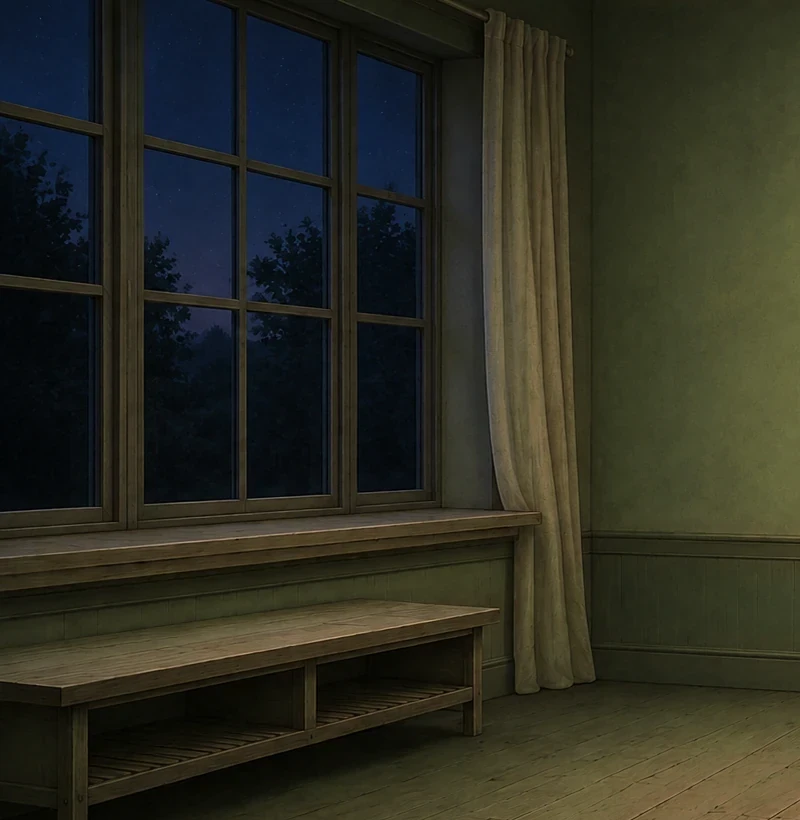
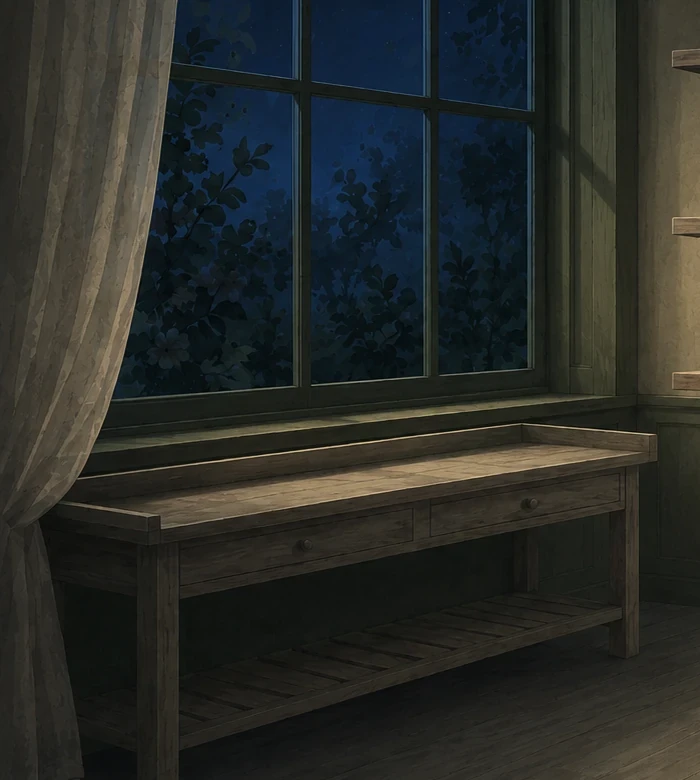
feat(jardin): el cuarto pasa a la ilustración en acuarela v1
Sustituye los fondos por las referencias ilustradas nuevas. Es el primer par
pintado con la MISMA técnica que los assets botánicos de PlantArt: acuarela,
bordes blandos, textura de papel. Se acabó el contraste entre un fondo de
render y unas plantas pintadas.

FONDOS
  cuarto-claro.webp    1586×991  199 KB
  cuarto-oscuro.webp   1586×991  136 KB
  movil-a-{claro,oscuro}.webp   700×780   (ventana y banco)
  movil-b-{claro,oscuro}.webp   986×940   (repisas y suelo)

El oscuro ya cumple la paleta de Mafer OS sin graduación: luminancia 48.7
(rango 45-70), saturación 0.22 (< 0.35) y pared en 60° (oliva).

COORDENADAS RECALIBRADAS DE CERO
La habitación cambió de proporciones internas, así que se remidió todo con
rejilla de calibración y promedio claro/oscuro:

  repisa alta   16.26 % → 11.76 %   (baja 4.5 % hacia la derecha)
  repisa media  34.02 % → 32.68 %
  repisa baja   49.32 % → 51.68 %
  friso         52.4 %   (antes 59.2 %)
  suelo         80.6 %   (antes 72.4 %)
  banco         58.3 %   (antes 69.0 %)

Las repisas de esta ilustración llegan del 38.8 % al borde derecho: son un
50 % más largas y admiten seis plantas por repisa con holgura, sin apretar.

AFORO
  escritorio  20 sitios  (6+6+5 repisas, 3 suelo) + la planta actual
  móvil       16 sitios  (4+5+5 repisas, 2 suelo) + la planta actual

Móvil conserva los dos paneles apilados, con recortes nuevos. El panel A pasa
a ser el retrato de la planta actual sobre su banco: en esta habitación el
[…]

diff --git a/src/lib/garden-layout.ts b/src/lib/garden-layout.ts
@@ -51,8 +51,8 @@ export type GardenSurface = "alfeizar" | "repisa-alta" | "repisa-media" | "repis
  *  superficies pintadas. Ambas composiciones comparten fondo. */
 export const SCENE_ASPECT: Record<GardenScene, number> = {
   wide: 1586 / 991,
-  "movil-a": 800 / 820,
-  "movil-b": 806 / 930,
+  "movil-a": 700 / 780,
+  "movil-b": 986 / 940,
 };
 
 export type GardenSlot = {
@@ -83,65 +83,69 @@ const slot = (
   order: number
 ): GardenSlot => ({ id, surface, scene, x, baseline, height, maxWidth, order });
 
-/** Escritorio: 15 sitios en las tres repisas + 3 en el suelo.
- *  Líneas de apoyo medidas sobre la ilustración, siguiendo su inclinación. */
+/** Escritorio: la habitación entera. Las repisas de esta ilustración llegan
+ *  desde el 38.8 % hasta el borde derecho —un 50 % más largas que las de la
+ *  versión anterior—, así que caben seis por repisa con holgura en vez de
+ *  apretarlas. Líneas de apoyo medidas sobre la ilustración y promediadas
+ *  entre la variante clara y la oscura. */
 const WIDE: GardenSlot[] = [
-  // Repisa alta — sube 2.1 % hacia la derecha
-  slot("wide", "repisa-alta-1", "repisa-alta", 63, 16.07, 13, 7.8, 0),
-  slot("wide", "repisa-alta-2", "repisa-alta", 71, 15.44, 13, 7.8, 1),
-  slot("wide", "repisa-alta-3", "repisa-alta", 79, 14.81, 13, 7.8, 2),
-  slot("wide", "repisa-alta-4", "repisa-alta", 87, 14.17, 13, 7.8, 3),
-  slot("wide", "repisa-alta-5", "repisa-alta", 95, 13.54, 13, 7.8, 4),
+  // Repisa alta — sube 5 % hacia la derecha; poco techo, plantas más bajas
+  slot("wide", "repisa-alta-1", "repisa-alta", 45, 16.26, 11, 9, 0),
+  slot("wide", "repisa-alta-2", "repisa-alta", 55, 15.36, 11, 9, 1),
+  slot("wide", "repisa-alta-3", "repisa-alta", 65, 14.46, 11, 9, 2),
+  slot("wide", "repisa-alta-4", "repisa-alta", 75, 13.56, 11, 9, 3),
+  slot("wide", "repisa-alta-5", "repisa-alta", 85, 12.66, 11, 9, 4),
+  slot("wide", "repisa-alta-6", "repisa-alta", 95, 11.76, 11, 9, 5),
   // Repisa media — casi horizontal
-  slot("wide", "repisa-media-1", "repisa-media", 63, 32.41, 13, 7.8, 5),
-  slot("wide", "repisa-media-2", "repisa-media", 71, 32.25, 13, 7.8, 6),
-  slot("wide", "repisa-media-3", "repisa-media", 79, 32.09, 13, 7.8, 7),
-  slot("wide", "repisa-media-4", "repisa-media", 87, 31.93, 13, 7.8, 8),
-  slot("wide", "repisa-media-5", "repisa-media", 95, 31.77, 13, 7.8, 9),
-  // Repisa baja — horizontal
-  slot("wide", "repisa-baja-1", "repisa-baja", 63, 49.11, 14, 7.8, 10),
-  slot("wide", "repisa-baja-2", "repisa-baja", 71, 49.20, 14, 7.8, 11),
-  slot("wide", "repisa-baja-3", "repisa-baja", 79, 49.29, 14, 7.8, 12),
-  slot("wide", "repisa-baja-4", "repisa-baja", 87, 49.38, 14, 7.8, 13),
-  slot("wide", "repisa-baja-5", "repisa-baja", 95, 49.47, 14, 7.8, 14),
-  // Suelo — más cerca del frente = más grandes. A la izquierda de la regadera
-  // y la caja de madera, que viven a partir del 78 % del ancho.
-  slot("wide", "piso-1", "piso", 37, 87, 23, 16, 15),
-  slot("wide", "piso-2", "piso", 54, 85, 22, 16, 16),
-  slot("wide", "piso-3", "piso", 70, 80, 19, 14, 17),
+  slot("wide", "repisa-media-1", "repisa-media", 45, 34.02, 14, 9, 6),
+  slot("wide", "repisa-media-2", "repisa-media", 55, 33.75, 14, 9, 7),
+  slot("wide", "repisa-media-3", "repisa-media", 65, 33.48, 14, 9, 8),
+  slot("wide", "repisa-media-4", "repisa-media", 75, 33.22, 14, 9, 9),
+  slot("wide", "repisa-media-5", "repisa-media", 85, 32.95, 14, 9, 10),
+  slot("wide", "repisa-media-6", "repisa-media", 95, 32.68, 14, 9, 11),
+  // Repisa baja — baja hacia la derecha y termina antes (94.5 %)
+  slot("wide", "repisa-baja-1", "repisa-baja", 45, 49.32, 14, 9, 12),
+  slot("wide", "repisa-baja-2", "repisa-baja", 55, 49.91, 14, 9, 13),
+  slot("wide", "repisa-baja-3", "repisa-baja", 65, 50.50, 14, 9, 14),
+  slot("wide", "repisa-baja-4", "repisa-baja", 75, 51.09, 14, 9, 15),
+  slot("wide", "repisa-baja-5", "repisa-baja", 85, 51.68, 14, 9, 16),
+  // Suelo — entre el banco (termina en el 40 %) y la caja de madera (empieza
+  // en el 74 %). Más cerca del frente = más grandes.
+  slot("wide", "piso-1", "piso", 47, 89, 17, 9, 17),
+  slot("wide", "piso-2", "piso", 57, 92, 19, 9, 18),
+  slot("wide", "piso-3", "piso", 67, 87, 16, 9, 19),
 ];
 
-/** Móvil: la misma habitación recorrida en dos vistas apiladas.
+/** Móvil: el mismo cuarto recorrido en dos vistas apiladas.
  *
- *  Un recorte 4:5 de la ilustración horizontal mide exactamente media imagen:
- *  o conserva la ventana y pierde las repisas, o al revés. Por eso móvil no es
- *  un recorte sino DOS lienzos del mismo cuarto — arriba la ventana con su
- *  alféizar y su banco, abajo las tres repisas y el suelo.
+ *  Panel A — ventana y banco de propagación           (recorte x 0-700, y 120-900)
+ *  Panel B — las tres repisas y el suelo             (recorte x 600-1586, y 0-940)
  *
- *  Coordenadas medidas dentro de cada recorte, promediando claro y oscuro.
- *  A 390 px de ancho las plantas quedan entre 55 y 90 px: legibles y tocables,
- *  frente a los 38 px que daba la composición de una sola escena. */
+ *  Cuatro o cinco sitios por repisa en vez de seis: a 390 px de ancho eso deja
+ *  plantas de 64-75 px, claramente visibles y tocables. */
 const NARROW: GardenSlot[] = [
-  // ── Panel A · ventana, alféizar y banco ──
-  // El alféizar sube hacia la derecha con la perspectiva. Sus dos sitios van a
-  // la derecha del panel para dejarle a la planta actual el hueco de la
-  // izquierda: el banco está DELANTE del alféizar, así que una planta alta
-  // sobre él invadiría el alféizar si compartieran columna.
-  slot("movil-a", "alfeizar-1", "alfeizar", 40, 63.8, 20, 11, 0),
-  slot("movil-a", "alfeizar-2", "alfeizar", 52, 62.9, 20, 11, 1),
-  // ── Panel B · tres repisas y suelo ──
-  slot("movil-b", "repisa-alta-1", "repisa-alta", 35, 15.46, 13, 22, 2),
-  slot("movil-b", "repisa-alta-2", "repisa-alta", 58, 14.57, 13, 22, 3),
-  slot("movil-b", "repisa-alta-3", "repisa-alta", 81, 13.67, 13, 22, 4),
-  slot("movil-b", "repisa-media-1", "repisa-media", 35, 33.43, 16, 22, 5),
-  slot("movil-b", "repisa-media-2", "repisa-media", 58, 33.13, 16, 22, 6),
-  slot("movil-b", "repisa-media-3", "repisa-media", 81, 32.83, 16, 22, 7),
-  slot("movil-b", "repisa-baja-1", "repisa-baja", 35, 51.26, 17, 22, 8),
-  slot("movil-b", "repisa-baja-2", "repisa-baja", 58, 51.43, 17, 22, 9),
-  slot("movil-b", "repisa-baja-3", "repisa-baja", 81, 51.60, 17, 22, 10),
-  // El suelo se queda a la izquierda de la regadera y la caja (68 % en adelante)
-  slot("movil-b", "piso-1", "piso", 30, 88, 22, 26, 11),
-  slot("movil-b", "piso-2", "piso", 54, 82, 19, 22, 12),
+  // ── Panel A · la planta actual en su banco, bajo la ventana ──
+  // Sin sitios extra: en esta habitación el banco está pegado a la ventana y
+  // tapa el alféizar, así que no queda superficie donde posar nada más. El
+  // panel es el retrato de la planta que estás cuidando.
+  // ── Panel B · la colección ──
+  slot("movil-b", "repisa-alta-1", "repisa-alta", 16, 16.87, 12, 21, 0),
+  slot("movil-b", "repisa-alta-2", "repisa-alta", 40, 15.46, 12, 21, 1),
+  slot("movil-b", "repisa-alta-3", "repisa-alta", 64, 14.05, 12, 21, 2),
+  slot("movil-b", "repisa-alta-4", "repisa-alta", 86, 12.76, 12, 21, 3),
+  slot("movil-b", "repisa-media-1", "repisa-media", 12, 35.86, 16, 18, 4),
+  slot("movil-b", "repisa-media-2", "repisa-media", 31, 35.52, 16, 18, 5),
+  slot("movil-b", "repisa-media-3", "repisa-media", 50, 35.19, 16, 18, 6),
+  slot("movil-b", "repisa-media-4", "repisa-media", 69, 34.86, 16, 18, 7),
+  slot("movil-b", "repisa-media-5", "repisa-media", 88, 34.53, 16, 18, 8),
+  slot("movil-b", "repisa-baja-1", "repisa-baja", 12, 52.02, 15, 18, 9),
+  slot("movil-b", "repisa-baja-2", "repisa-baja", 31, 52.75, 15, 18, 10),
+  slot("movil-b", "repisa-baja-3", "repisa-baja", 50, 53.48, 15, 18, 11),
+  slot("movil-b", "repisa-baja-4", "repisa-baja", 69, 54.21, 15, 18, 12),
+  slot("movil-b", "repisa-baja-5", "repisa-baja", 88, 54.95, 15, 18, 13),
+  // La caja de madera empieza en el 58 % de este recorte
+  slot("movil-b", "piso-1", "piso", 18, 92, 20, 20, 14),
+  slot("movil-b", "piso-2", "piso", 40, 88, 18, 20, 15),
 ];
 
 export const GARDEN_SLOTS: Record<GardenBreakpoint, GardenSlot[]> = { wide: WIDE, narrow: NARROW };
@@ -155,9 +159,9 @@ export const GARDEN_SLOTS: Record<GardenBreakpoint, GardenSlot[]> = { wide: WIDE
  *  lienzo un poco más abajo el dibujo aterriza sobre la madera en vez de
  *  flotar. Calculado como 67.8 + 0.18 × alto. */
 export const PROPAGATION_SPOT: Record<GardenBreakpoint, Omit<GardenSlot, "surface" | "order">> = {
-  wide: { id: "propagacion", scene: "wide", x: 17, baseline: 73.3, height: 24, maxWidth: 24 },
+  wide: { id: "propagacion", scene: "wide", x: 22, baseline: 62.98, height: 26, maxWidth: 26 },
   // En móvil el banco vive en el panel A, medido dentro de ese recorte.
-  narrow: { id: "propagacion", scene: "movil-a", x: 18, baseline: 83.2, height: 26, maxWidth: 26 },
+  narrow: { id: "propagacion", scene: "movil-a", x: 30, baseline: 67.7, height: 26, maxWidth: 32 },
 };
 
 /** Orden de llenado, distinto del orden visual: reparte entre superficies para
@@ -165,15 +169,16 @@ export const PROPAGATION_SPOT: Record<GardenBreakpoint, Omit<GardenSlot, "surfac
  *  nunca mueve nada. */
 const FILL_ORDER: Record<GardenBreakpoint, string[]> = {
   wide: [
-    "repisa-media-2", "piso-2", "repisa-alta-3", "repisa-baja-4", "piso-1",
-    "repisa-media-4", "repisa-baja-1", "repisa-alta-1", "piso-3", "repisa-media-1",
-    "repisa-baja-3", "repisa-alta-5", "repisa-media-5", "repisa-baja-5", "repisa-alta-2",
-    "repisa-media-3", "repisa-baja-2", "repisa-alta-4",
+    "repisa-media-2", "piso-2", "repisa-alta-4", "repisa-baja-1", "repisa-media-5",
+    "piso-1", "repisa-alta-1", "repisa-baja-3", "repisa-media-3", "piso-3",
+    "repisa-alta-6", "repisa-baja-5", "repisa-media-1", "repisa-alta-2", "repisa-baja-2",
+    "repisa-media-6", "repisa-alta-5", "repisa-baja-4", "repisa-media-4", "repisa-alta-3",
   ],
   narrow: [
-    "alfeizar-1", "repisa-media-2", "piso-1", "repisa-alta-2", "repisa-baja-2",
-    "alfeizar-2", "piso-2", "repisa-media-1", "repisa-alta-1", "repisa-baja-3",
-    "repisa-media-3", "repisa-alta-3", "repisa-baja-1",
+    "repisa-media-3", "piso-1", "repisa-alta-2", "repisa-baja-4", "repisa-media-1",
+    "piso-2", "repisa-alta-4", "repisa-baja-2", "repisa-media-5", "repisa-alta-1",
+    "repisa-baja-5", "repisa-media-2", "repisa-alta-3", "repisa-baja-1",
+    "repisa-media-4", "repisa-baja-3",
   ],
 };
 

diff --git a/tests/garden-layout.test.ts b/tests/garden-layout.test.ts
@@ -122,22 +122,22 @@ describe("slots de la escena", () => {
     }
   });
 
-  it("móvil reparte el cuarto en dos vistas: ventana arriba, repisas abajo", () => {
-    const a = GARDEN_SLOTS.narrow.filter((s) => s.scene === "movil-a");
-    const b = GARDEN_SLOTS.narrow.filter((s) => s.scene === "movil-b");
-    expect(a.every((s) => s.surface === "alfeizar")).toBe(true);
-    expect(new Set(b.map((s) => s.surface))).toEqual(
+  it("móvil reparte el cuarto en dos vistas: la planta actual arriba, la colección abajo", () => {
+    // El panel A es el retrato de la planta actual sobre su banco; en esta
+    // habitación el banco tapa el alféizar y no hay más superficie útil ahí.
+    expect(PROPAGATION_SPOT.narrow.scene).toBe("movil-a");
+    expect(GARDEN_SLOTS.narrow.every((s) => s.scene === "movil-b")).toBe(true);
+    expect(new Set(GARDEN_SLOTS.narrow.map((s) => s.surface))).toEqual(
       new Set(["repisa-alta", "repisa-media", "repisa-baja", "piso"])
     );
-    expect(a.length + b.length).toBe(GARDEN_SLOTS.narrow.length);
   });
 
   it("el cuarto es una vitrina: capacidad acotada y menor en móvil", () => {
-    expect(roomCapacity("wide")).toBe(18);
+    expect(roomCapacity("wide")).toBe(20);
     // Móvil reparte el cuarto en dos vistas y recupera casi todo el aforo.
-    expect(roomCapacity("narrow")).toBe(13);
+    expect(roomCapacity("narrow")).toBe(16);
     expect(roomCapacity("narrow")).toBeLessThan(roomCapacity("wide"));
-    expect(MAX_ROOM_PLANTS).toBe(18);
+    expect(MAX_ROOM_PLANTS).toBe(20);
   });
 });
 
@@ -182,7 +182,9 @@ describe("tamaño de cada planta", () => {
   });
 
   it("una especie ancha se recorta y una estrecha no", () => {
-    const slot = GARDEN_SLOTS.wide.find((s) => s.surface === "repisa-alta")!;
+    // La repisa media es la de plantas más altas del escritorio: ahí una
+    // especie apaisada topa con el ancho máximo y una vertical no.
+    const slot = GARDEN_SLOTS.wide.find((s) => s.surface === "repisa-media")!;
     const monstera = fitPlant("monstera", slot); // 411×318, apaisada
     const bambu = fitPlant("bambu", slot); // 263×282, vertical
     expect(monstera.height).toBeLessThan(slot.height); // recortada
@@ -247,8 +249,8 @@ describe("reparto de plantas", () => {
     expect(new Set(narrow)).toEqual(new Set(wide.slice(0, n)));
   });
 
-  it("móvil llena los dos paneles desde el principio, no uno y luego el otro", () => {
+  it("móvil reparte entre las cuatro superficies desde el principio, no una y luego otra", () => {
     const puestas = placePlants(plantas(5), "narrow");
-    expect(new Set(puestas.map((p) => p.slot.scene)).size).toBe(2);
+    expect(new Set(puestas.map((p) => p.slot.surface)).size).toBe(4);
   });
 });

diff --git a/src/app/globals.css b/src/app/globals.css
@@ -519,8 +519,8 @@ html[data-theme="dark"] {
 }
 
 .garden-scene-wide { display: none; aspect-ratio: 1586 / 991; }
-.garden-panel-a { aspect-ratio: 800 / 820; }
-.garden-panel-b { aspect-ratio: 806 / 930; }
+.garden-panel-a { aspect-ratio: 700 / 780; }
+.garden-panel-b { aspect-ratio: 986 / 940; }
 
 .garden-scene-wide { background-image: url("/garden/cuarto-claro.webp"); }
 .garden-panel-a { background-image: url("/garden/movil-a-claro.webp"); }
